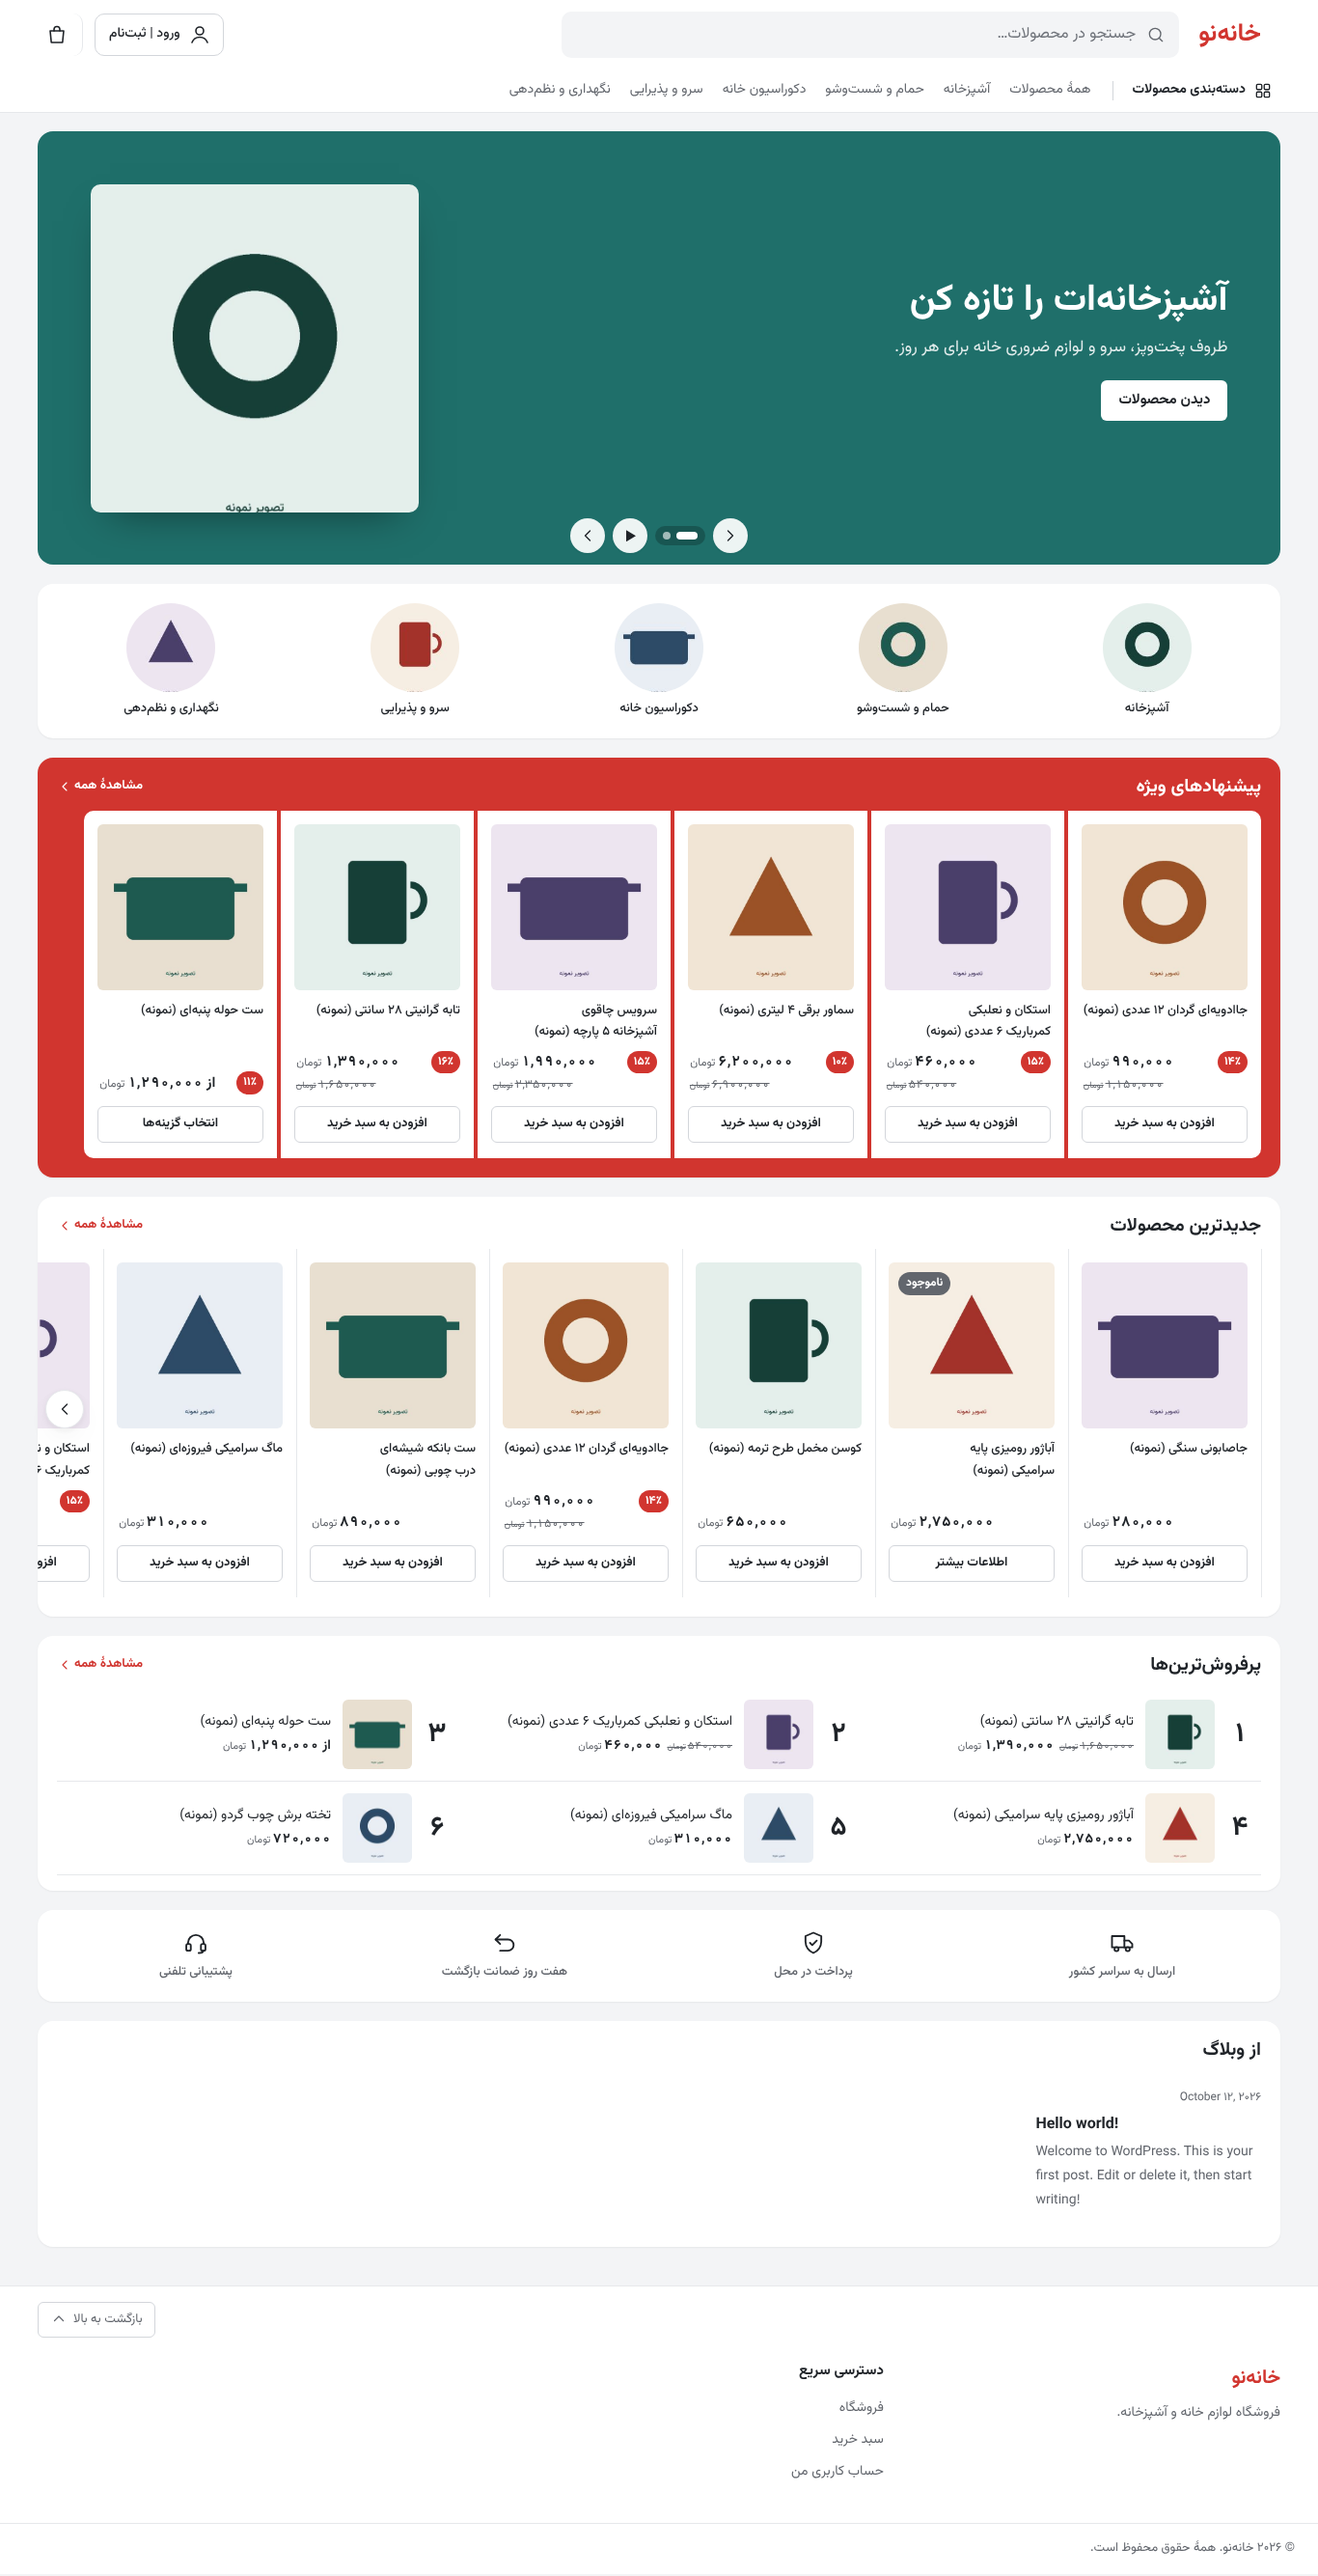
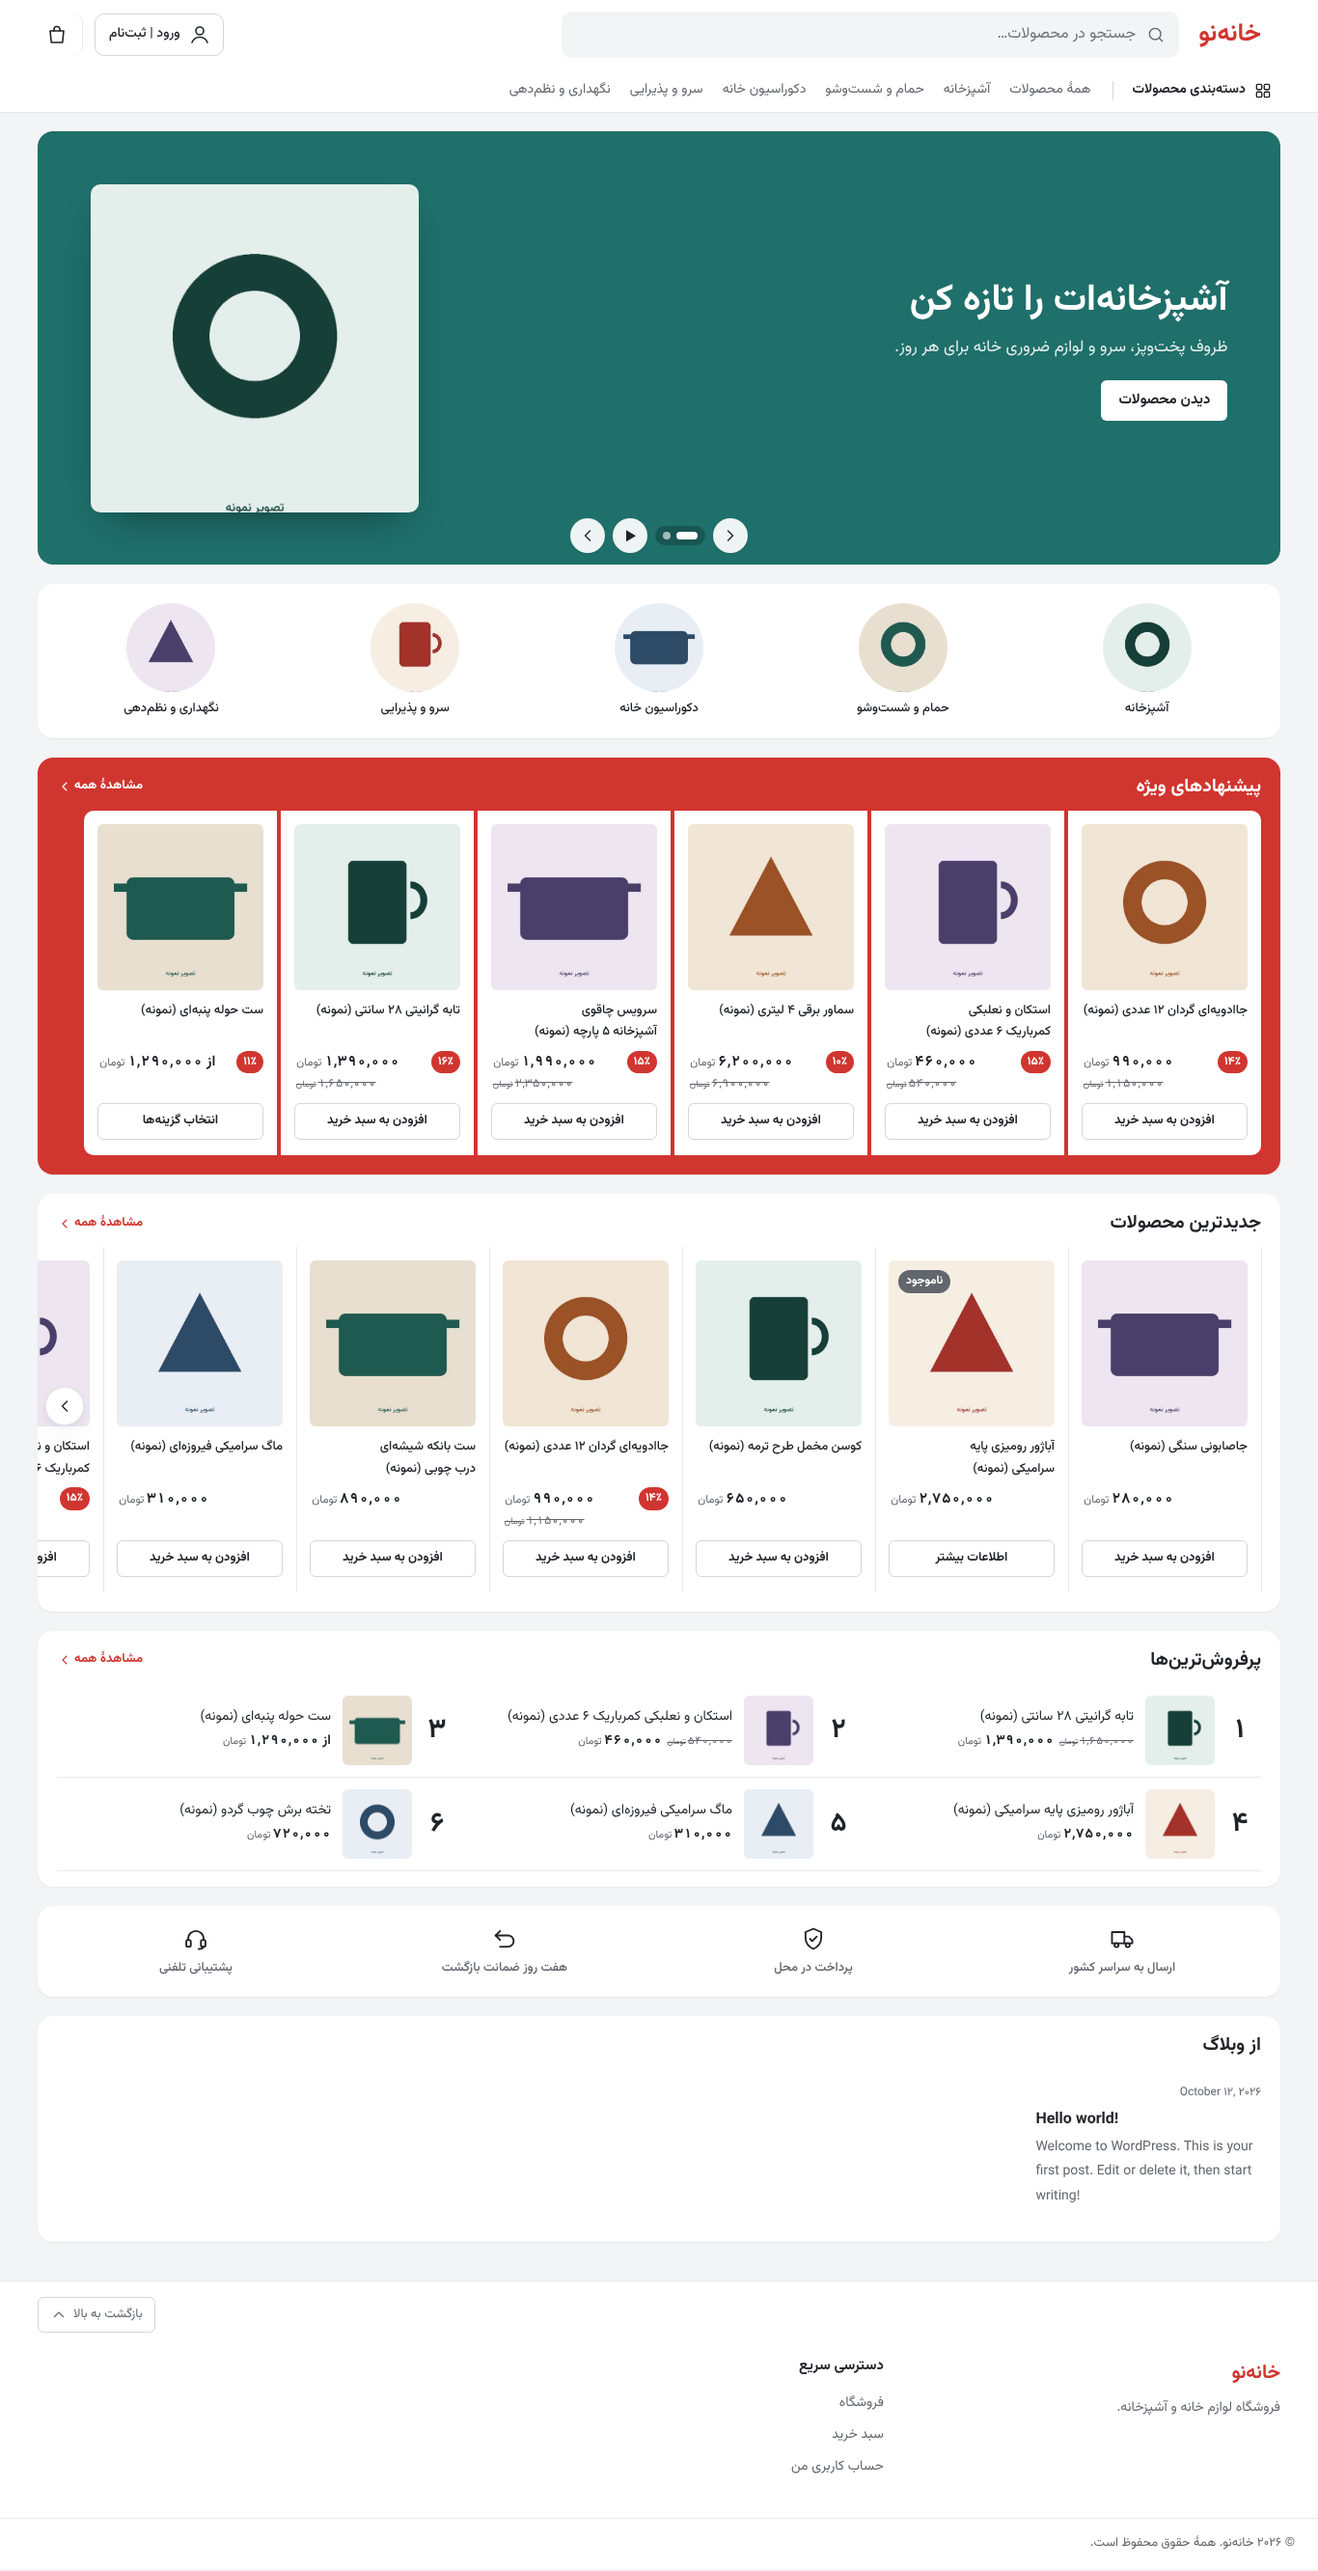
Align card prices across rows; keep home panels inside the gutters
- Cards without an old price reserve its line, so current prices line
  up across a grid row now that the discount badge sits beside them.
- The category shortcuts panel is drawn on the list, not the container,
  so it keeps the page gutters below 1360px like every other section.
- Header cart drops its half-drawn divider.
- New theme screenshot and final review captures.

Claude-Session: https://claude.ai/code/session_01PAXb1LFDFgE2YsoQFwiMtd

diff --git a/wp-theme/sofreh/assets/css/main.css b/wp-theme/sofreh/assets/css/main.css
@@ -687,9 +687,7 @@ input[type="search"]::-webkit-search-cancel-button {
 }
 
 .hdr__actions .header-cart {
-	border-inline-start: 1px solid var(--c-line);
-	border-radius: 0 var(--r) var(--r) 0;
-	padding-inline-start: 14px;
+	padding-inline: 10px;
 }
 
 /* The count sits on the bag's top corner and only clips its edge. */
@@ -1334,28 +1332,19 @@ html:not([dir="rtl"]) .site-drawer {
 }
 
 /* Category circles */
-.cat-circles .container {
-	background: var(--c-surface);
-	border-radius: var(--r-l);
-	padding-block: 18px;
-	box-shadow: var(--shadow-s);
-}
-
-@media (min-width: 1360px) {
-	.cat-circles .container {
-		max-width: calc(var(--container) - 2 * var(--gutter));
-	}
-}
-
+/* The panel is the list itself, so it keeps the page gutters at every width. */
 .cat-circles__list {
 	display: flex;
 	gap: clamp(12px, 3vw, 28px);
 	justify-content: space-around;
 	margin: 0;
-	padding: 2px;
+	padding: 18px clamp(12px, 2vw, 20px);
 	list-style: none;
 	overflow-x: auto;
 	scrollbar-width: none;
+	background: var(--c-surface);
+	border-radius: var(--r-l);
+	box-shadow: var(--shadow-s);
 }
 
 .cat-circles__list::-webkit-scrollbar {

diff --git a/wp-theme/sofreh/assets/css/woocommerce.css b/wp-theme/sofreh/assets/css/woocommerce.css
@@ -521,7 +521,17 @@ ul.products li.product .product-card__price .price-from {
 ul.products li.product .product-card__price del {
 	order: 3;
 	flex-basis: 100%;
+	line-height: 1.6;
 	text-align: end;
+}
+
+/* Cards without an old price keep that line empty, so prices line up across a row. */
+ul.products li.product .product-card__price:not(:has(del))::after {
+	content: "";
+	order: 3;
+	flex-basis: 100%;
+	height: 1.6em;
+	font-size: 0.8em;
 }
 
 ul.products li.product .button {

diff --git a/wp-theme/SOURCE.md b/wp-theme/SOURCE.md
@@ -1955,9 +1955,7 @@ input[type="search"]::-webkit-search-cancel-button {
 }
 
 .hdr__actions .header-cart {
-	border-inline-start: 1px solid var(--c-line);
-	border-radius: 0 var(--r) var(--r) 0;
-	padding-inline-start: 14px;
+	padding-inline: 10px;
 }
 
 /* The count sits on the bag's top corner and only clips its edge. */
@@ -2602,28 +2600,19 @@ html:not([dir="rtl"]) .site-drawer {
 }
 
 /* Category circles */
-.cat-circles .container {
-	background: var(--c-surface);
-	border-radius: var(--r-l);
-	padding-block: 18px;
-	box-shadow: var(--shadow-s);
-}
-
-@media (min-width: 1360px) {
-	.cat-circles .container {
-		max-width: calc(var(--container) - 2 * var(--gutter));
-	}
-}
-
+/* The panel is the list itself, so it keeps the page gutters at every width. */
 .cat-circles__list {
 	display: flex;
 	gap: clamp(12px, 3vw, 28px);
 	justify-content: space-around;
 	margin: 0;
-	padding: 2px;
+	padding: 18px clamp(12px, 2vw, 20px);
 	list-style: none;
 	overflow-x: auto;
 	scrollbar-width: none;
+	background: var(--c-surface);
+	border-radius: var(--r-l);
+	box-shadow: var(--shadow-s);
 }
 
 .cat-circles__list::-webkit-scrollbar {
@@ -3848,7 +3837,17 @@ ul.products li.product .product-card__price .price-from {
 ul.products li.product .product-card__price del {
 	order: 3;
 	flex-basis: 100%;
+	line-height: 1.6;
 	text-align: end;
+}
+
+/* Cards without an old price keep that line empty, so prices line up across a row. */
+ul.products li.product .product-card__price:not(:has(del))::after {
+	content: "";
+	order: 3;
+	flex-basis: 100%;
+	height: 1.6em;
+	font-size: 0.8em;
 }
 
 ul.products li.product .button {
